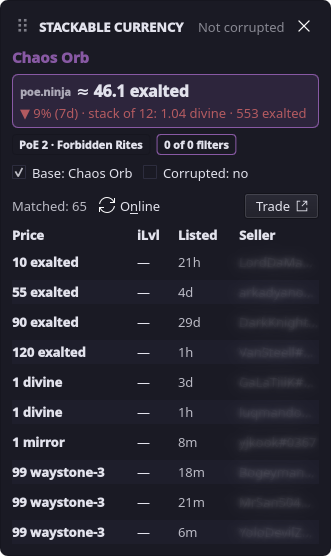
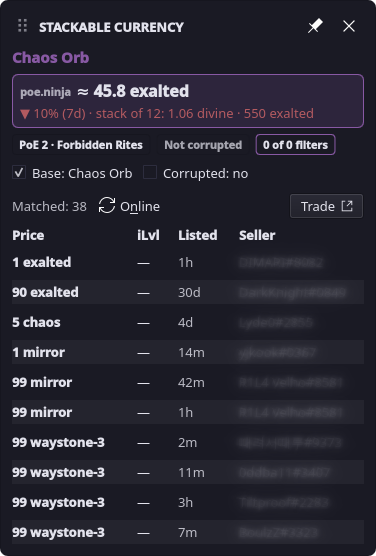
docs: pin in Usage, new screenshots, one section per game (#18)
* docs: mention the pin in Usage

* docs: new screenshots with the pin, one section per game

Retake the README screenshots (real data, sellers blurred) so they show the pin, the
corrupted chip and the accent bars, and group them per game instead of comparing PoE 1 and
PoE 2 column by column.

---------

diff --git a/README.md b/README.md
@@ -16,16 +16,17 @@ all use the desktop's native mechanisms.
 > Looting Glass is a fan-made tool and is not affiliated with or endorsed by Grinding Gear Games.
 
 <table align="center">
-  <tr>
-    <th>Path of Exile</th>
-    <th>Path of Exile 2</th>
-  </tr>
+  <tr><th colspan="2">Path of Exile</th></tr>
   <tr>
     <td valign="top"><img src="docs/screenshots/poe1-rare.png" alt="PoE 1 rare item price check with editable stat filters" width="300"></td>
-    <td valign="top"><img src="docs/screenshots/poe2-rare.png" alt="PoE 2 rare item price check with editable stat filters" width="300"></td>
-  </tr>
-  <tr>
     <td valign="top"><img src="docs/screenshots/poe1-currency.png" alt="PoE 1 currency price check with poe.ninja value" width="300"></td>
+  </tr>
+</table>
+
+<table align="center">
+  <tr><th colspan="2">Path of Exile 2</th></tr>
+  <tr>
+    <td valign="top"><img src="docs/screenshots/poe2-rare.png" alt="PoE 2 rare item price check with editable stat filters" width="300"></td>
     <td valign="top"><img src="docs/screenshots/poe2-currency.png" alt="PoE 2 currency price check with poe.ninja value" width="300"></td>
   </tr>
 </table>
@@ -152,7 +153,9 @@ Start **Looting Glass** from the application launcher. It lives in the system tr
    keyboard. That permission is needed so Looting Glass can press Ctrl+C in the game. Both are
    remembered.
 3. Adjust the filters if you like. The search updates automatically.
-4. Press **Esc** or **Space**, or click back into the game, to close the overlay.
+4. Press **Esc** or **Space**, or click back into the game, to close the overlay. To keep it
+   open while you play, click the pin next to ✕: it then stays until you press ✕ or Esc, and
+   remembers that setting.
 
 ### Manual price check
 
